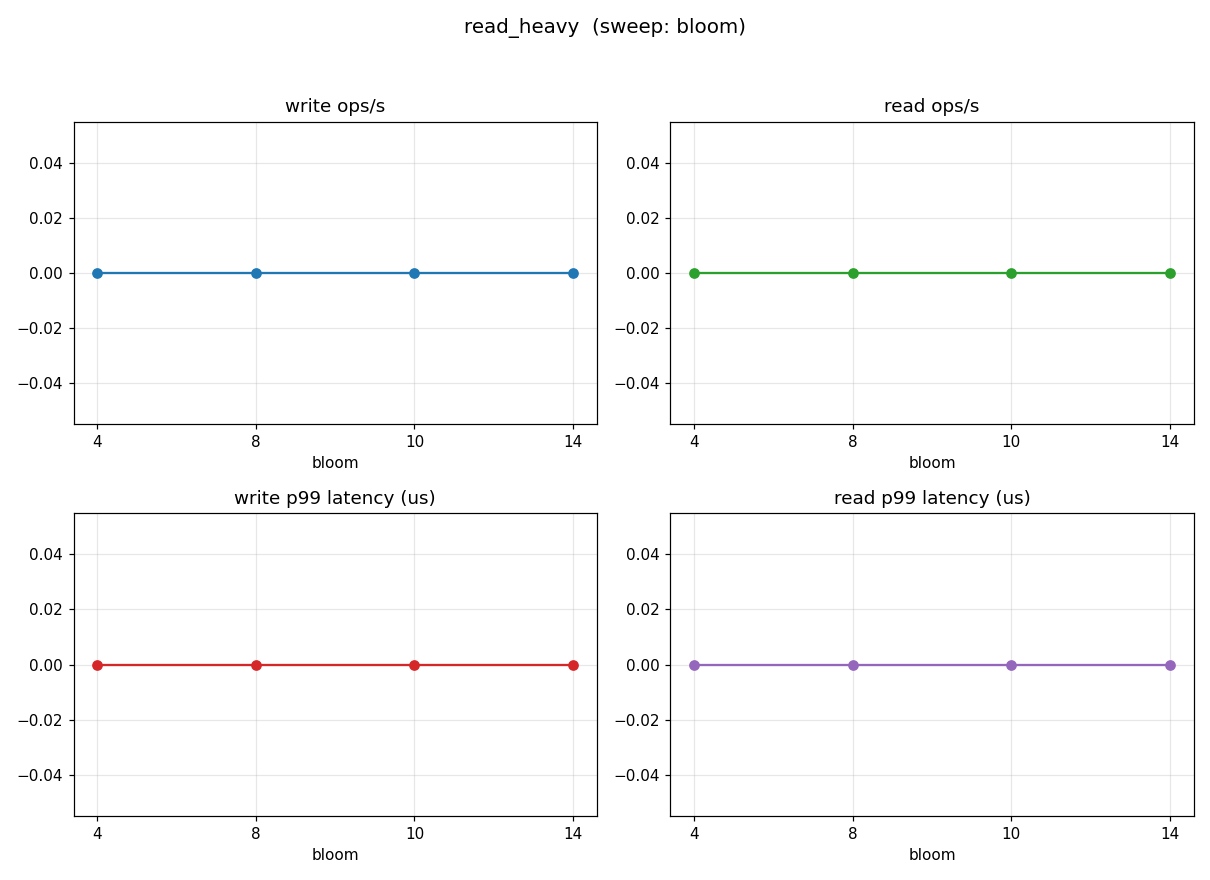
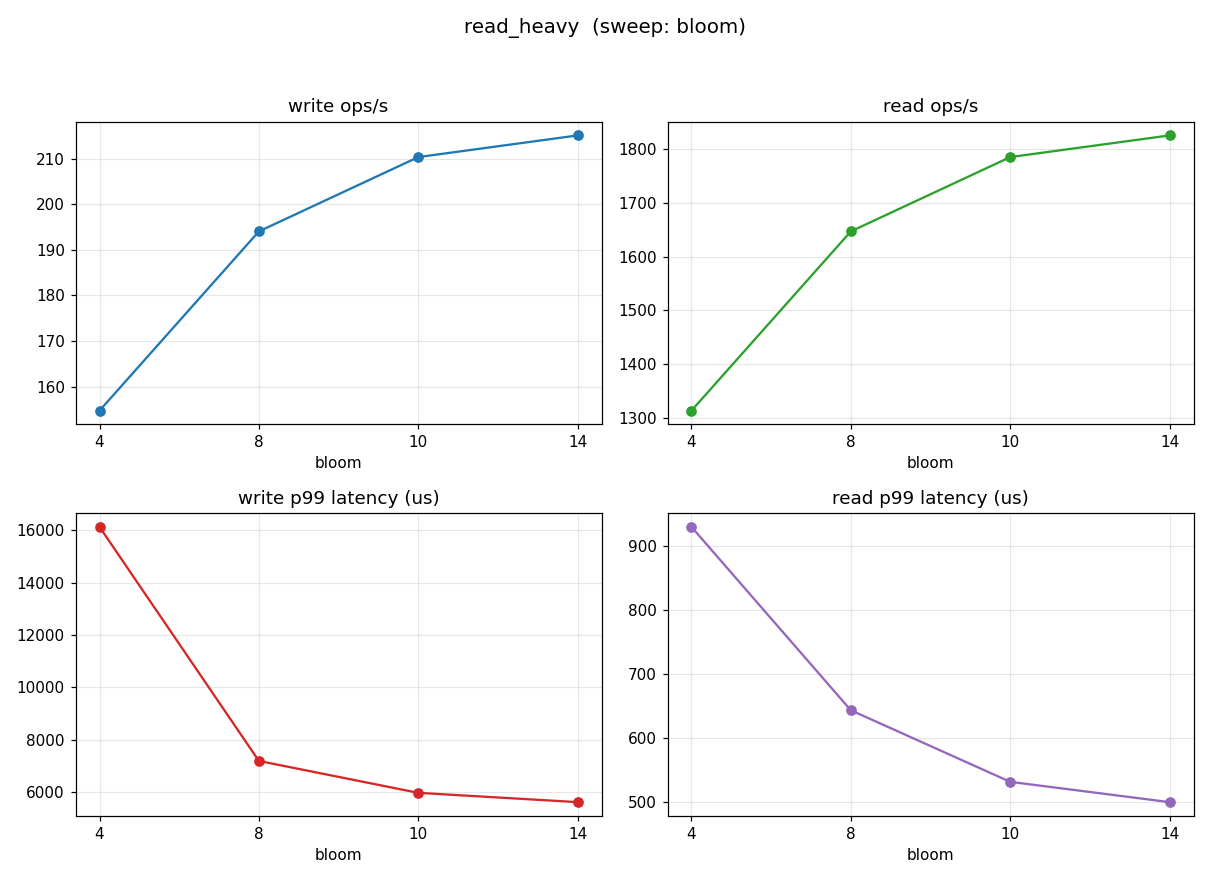
fix: correct benchmark plot metrics

diff --git a/scripts/compare_v1_v2.py b/scripts/compare_v1_v2.py
@@ -10,7 +10,7 @@ import os
 METRICS = [
     ("total_ops_per_second", "total_ops/s"),
     ("read_ops_per_second", "read_ops/s"),
-    ("read_p99_us", "read_p99_us"),
+    ("read_latency_us.p99", "read_p99_us"),
     ("sstable_count", "sstables"),
     ("bloom_checks", "bloom_checks"),
     ("bloom_negative_hits", "bloom_neg"),
@@ -26,6 +26,15 @@ def load(path):
         return json.load(handle)
 
 
+def value(results, key):
+    current = results
+    for part in key.split("."):
+        current = current.get(part, 0)
+        if not isinstance(current, dict):
+            continue
+    return current
+
+
 def main():
     parser = argparse.ArgumentParser()
     parser.add_argument("--dir-v1", default="build/v1_results")
@@ -37,7 +46,7 @@ def main():
         v1 = load(os.path.join(args.dir_v1, args.detail))["results"]
         v2 = load(os.path.join(args.dir_v2, args.detail))["results"]
         for key, label in METRICS:
-            print(f"{label:<22} v1={v1.get(key, 0):>14}  v2={v2.get(key, 0):>14}")
+            print(f"{label:<22} v1={value(v1, key):>14}  v2={value(v2, key):>14}")
         return
 
     v1_files = sorted(
@@ -56,8 +65,8 @@ def main():
         v2 = load(os.path.join(args.dir_v2, name))["results"]
         row = f"{name:<52}"
         for key, _ in METRICS:
-            old = v1.get(key, 0)
-            new = v2.get(key, 0)
+            old = value(v1, key)
+            new = value(v2, key)
             if old == 0 and new == 0:
                 row += f"{'0':>14}"
             elif old == 0:

diff --git a/scripts/plot_results.py b/scripts/plot_results.py
@@ -87,10 +87,11 @@ def main():
             x = [p["value"] for p in points]
             labels = [label(v) for v in x]
 
-            write_ops = [p["data"].get("write_ops_per_second", 0) for p in points]
-            read_ops = [p["data"].get("read_ops_per_second", 0) for p in points]
-            write_p99 = [p["data"].get("write_p99_us", 0) for p in points]
-            read_p99 = [p["data"].get("read_p99_us", 0) for p in points]
+            results = [p["data"]["results"] for p in points]
+            write_ops = [r["write_ops_per_second"] for r in results]
+            read_ops = [r["read_ops_per_second"] for r in results]
+            write_p99 = [r["write_latency_us"]["p99"] for r in results]
+            read_p99 = [r["read_latency_us"]["p99"] for r in results]
 
             fig, axes = plt.subplots(2, 2, figsize=(11, 8))
             fig.suptitle(f"{workload}  (sweep: {dim})", fontsize=13)
